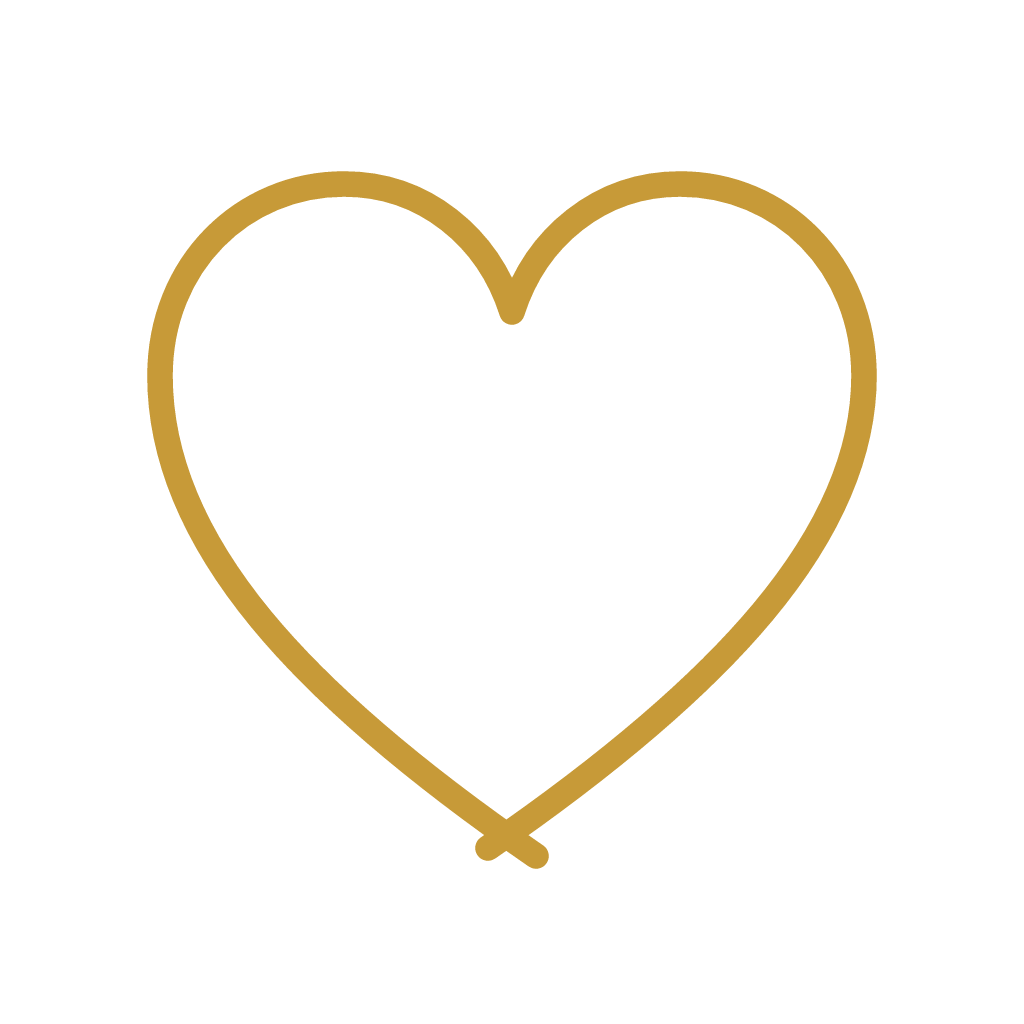
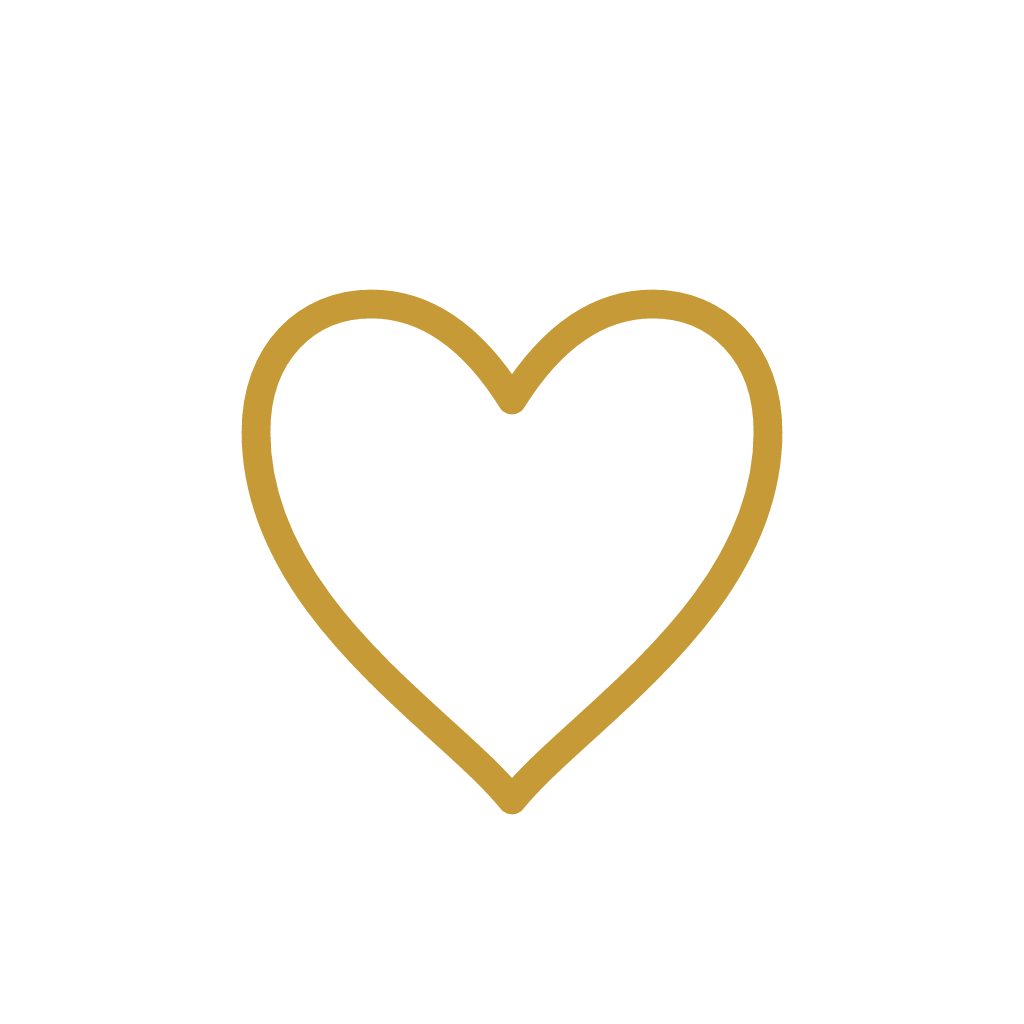
feat: 飾りの線画を、渡された SVG（currentColor）に入れ替える
- public/direction-ui/*.svg は、渡された15個をそのまま置く（書き換えていない）
- スクリプトは SVG を読むだけにして、PNG（古金色・1024×1024・透明）と確認用の一覧を作る
- 検査で出た注意: moon・cloud は余白が少ない、wave は右端で線が切れている

Changed region(s): [[0.125, 0.1562, 0.875, 0.8438]]

diff --git a/scripts/build_direction_ui_assets.py b/scripts/build_direction_ui_assets.py
@@ -1,12 +1,12 @@
-# 地図・円盤まわりで使う、飾りの小さな線画（方位星・テーマのしるし など）を作る。
+# 地図・円盤まわりで使う飾りの線画（方位星・テーマのしるし など）の、PNG と確認用の一覧を作る。
 #
 #   実行: uv run --with resvg-py --with pillow python scripts/build_direction_ui_assets.py
-#   出力: public/direction-ui/<名前>.svg と <名前>.png（1024×1024・背景は透明）
-#         docs/direction_ui_preview.png（32px / 48px に縮めた確認用。アプリでは使わない）
+#   もと: public/direction-ui/<名前>.svg（線の色は currentColor。使う側の文字色で色が決まる）
+#   出力: public/direction-ui/<名前>.png（1024×1024・背景は透明・古金色）
+#         docs/direction_ui_preview.png（16〜64px に縮めた確認用。アプリでは使わない）
 #
 # 8方位の扇・色・点数・方位名・選択中の表示など、データで変わるものはここでは作らない（アプリが描く）。
-# 線画は、すべて同じ決まりで描く: 64×64 の枠・同じ線の太さ・同じ金色・塗りなし・丸い線の端。
-# 画像生成AIの絵をなぞったものではなく、線を1本ずつ書いた SVG。
+# SVG は書き換えない（読むだけ）。SVG を直したら、このスクリプトを動かして PNG と一覧を作り直す。
 import io
 import os
 import sys
@@ -19,107 +19,9 @@ ROOT = os.path.dirname(os.path.dirname(os.path.abspath(__file__)))
 OUT = os.path.join(ROOT, 'public', 'direction-ui')
 PREVIEW = os.path.join(ROOT, 'docs', 'direction_ui_preview.png')
 
-GOLD = '#C79A38'   # 落ち着いた古金
-STROKE = 1.6       # 64 の枠での線の太さ（全部同じ）
+GOLD = '#C79A38'   # 落ち着いた古金（PNG にするときの色）
+INK = '#34302B'    # 墨色（確認用）
 SIZE = 1024
-
-
-def rot(shape, steps, step_deg):
-    return ''.join(f'<g transform="rotate({i * step_deg} 32 32)">{shape}</g>' for i in range(steps))
-
-
-# 針は中央の円の手前で止める（中央で線が重なって、小さくしたときに潰れないように）
-LONG_NEEDLE = '<path d="M32 7 L33.7 26.6 L32 28.2 L30.3 26.6 Z"/>'
-SHORT_NEEDLE = '<path d="M32 18 L33.2 26.8 L32 27.9 L30.8 26.8 Z"/>'
-
-ICONS = {
-    # 01 中央の円に置く方位星（八方向の細い針＋中央の小さな円）
-    'compass-rose': (
-        rot(LONG_NEEDLE, 4, 90)
-        + f'<g transform="rotate(45 32 32)">{rot(SHORT_NEEDLE, 4, 90)}</g>'
-        + '<circle cx="32" cy="32" r="2"/>'
-    ),
-    # 02 その日の一番良い方位に付ける小さな印（光の印。王冠やトロフィーにはしない）
-    'best-direction': (
-        '<path d="M32 9 C33 22 42 31 55 32 C42 33 33 42 32 55 C31 42 22 33 9 32 C22 31 31 22 32 9 Z"/>'
-        '<path d="M19.5 19.5 L24.5 24.5 M44.5 19.5 L39.5 24.5 M19.5 44.5 L24.5 39.5 M44.5 44.5 L39.5 39.5"/>'
-    ),
-    # 08 総合（方位星をさらに簡単にしたもの）
-    'theme-general': (
-        '<path d="M32 9 L35.2 28.8 L55 32 L35.2 35.2 L32 55 L28.8 35.2 L9 32 L28.8 28.8 Z"/>'
-        '<circle cx="32" cy="32" r="1.6"/>'
-    ),
-    # 03 ご縁（一筆で描いたようなハート。下で線が少し行き過ぎる）
-    'theme-love': (
-        '<path d="M33.5 53.5 C19 43.5 10 34 10 23.5 C10 16.5 15.2 11.5 21.5 11.5 C26.5 11.5 30.5 14.8 32 19.5 '
-        'C33.5 14.8 37.5 11.5 42.5 11.5 C48.8 11.5 54 16.5 54 23.5 C54 33.5 45 43 30.5 53"/>'
-    ),
-    # 04 仕事（小さな昔ながらのかばん。角はやわらかく）
-    'theme-work': (
-        '<rect x="10" y="22" width="44" height="28" rx="5"/>'
-        '<path d="M24 22 V18.5 C24 16 26 14 28.5 14 H35.5 C38 14 40 16 40 18.5 V22"/>'
-        '<path d="M10 34.5 H28.5 M35.5 34.5 H54"/>'
-        '<rect x="28.5" y="31.5" width="7" height="6" rx="1.4"/>'
-    ),
-    # 05 金運（まんなかに四角い穴のある古銭）
-    'theme-money': (
-        '<circle cx="32" cy="32" r="22"/>'
-        '<circle cx="32" cy="32" r="17.5" stroke-dasharray="1.2 3.4"/>'
-        '<rect x="26.5" y="26.5" width="11" height="11" rx="1.2"/>'
-    ),
-    # 06 健康（一枚の葉）
-    'theme-health': (
-        '<path d="M13 51 C12 29 27 12 51 12 C52 35 36 51 13 51 Z"/>'
-        '<path d="M13 51 C23 40 35 27 46 17"/>'
-        '<path d="M24 39.5 C24 34 25 30 27 26.5 M24 39.5 C29.5 39.5 33.5 38.5 37 36.5 M33.5 30 C33.5 26 34.5 23 36 20.5 M33.5 30 C37.5 30 40.5 29.2 43 27.8"/>'
-    ),
-    # 07 勉強（開いた本。文字は描かない）
-    'theme-study': (
-        '<path d="M32 19.5 C26 14.5 17 13.5 9 15.5 V46 C17 44 26 45 32 50"/>'
-        '<path d="M32 19.5 C38 14.5 47 13.5 55 15.5 V46 C47 44 38 45 32 50"/>'
-        '<path d="M32 19.5 V50"/>'
-    ),
-    # 09 地図で見る（折りたたんだ地図＋小さな方位の印）
-    'map-direction': (
-        '<path d="M9 18.5 L24 13 L40 18.5 L55 13 V45.5 L40 51 L24 45.5 L9 51 Z"/>'
-        '<path d="M24 13 V45.5 M40 18.5 V51"/>'
-        '<path d="M32 23.5 L33.4 30.6 L40.5 32 L33.4 33.4 L32 40.5 L30.6 33.4 L23.5 32 L30.6 30.6 Z"/>'
-    ),
-    # 10 「今日のポイント」の横に置く、小さな方位磁針（方位星より少し飾りがある）
-    'daily-point': (
-        '<circle cx="32" cy="35" r="20"/>'
-        '<circle cx="32" cy="35" r="15.5" stroke-dasharray="1.2 3.2"/>'
-        '<circle cx="32" cy="10.2" r="3"/>'
-        '<path d="M32 13.2 V15"/>'
-        '<g transform="translate(0 3)">'
-        '<path d="M32 19.5 L33.8 30.2 L32 32 L30.2 30.2 Z"/><path d="M32 44.5 L30.2 33.8 L32 32 L33.8 33.8 Z"/>'
-        '<path d="M19.5 32 L30.2 30.2 L32 32 L30.2 33.8 Z"/><path d="M44.5 32 L33.8 33.8 L32 32 L33.8 30.2 Z"/>'
-        '<circle cx="32" cy="32" r="1.6"/>'
-        '</g>'
-    ),
-    # 11〜15 飾り（とても簡単に）
-    'sun': (
-        '<circle cx="32" cy="32" r="9.5"/>'
-        + rot('<path d="M32 8 V16"/>', 4, 90)
-        + '<g transform="rotate(45 32 32)">' + rot('<path d="M32 11.5 V16.5"/>', 4, 90) + '</g>'
-    ),
-    'moon': '<path d="M41 9.5 C28 10.5 18 21 18 34 C18 46 27 55 39 55 C45 55 50 52.5 54 48.5 C40 50.5 29 41 29 28 C29 20.5 33.5 13.5 41 9.5 Z"/>',
-    'cloud': (
-        '<path d="M14 45 H46.5 C52.5 45 57 40.8 57 35.5 C57 30.5 53 26.8 48.5 27 C48.5 18.5 38 14.5 31.5 21.5 '
-        'C24.5 17.5 16.5 23.5 17.5 31.5 C12.5 30.5 7.5 34 7.5 38.8 C7.5 42.3 10.5 45 14 45"/>'
-        '<path d="M38.5 36.5 C39.5 32.5 44.5 31.5 47 34.5 C49 37 47 40 44.5 39.2"/>'
-    ),
-    'mountain': (
-        '<path d="M6 50 L24 19 L33.5 35.5 L41 25.5 L58 50"/>'
-        '<path d="M19 27.5 L22.2 30 L24.6 27 L27.4 30.2 L29.5 28.5"/>'
-        '<path d="M12 50 H52"/>'
-    ),
-    'wave': (
-        '<path d="M6 39 C13 26.5 27 26 30.5 37 C32.5 43.5 28 48 23.5 46 C20 44.4 20.8 39.5 24.5 39.6"/>'
-        '<path d="M30.5 37 C36 28 48 27.5 58 38.5"/>'
-        '<path d="M8 51 C20 46.5 42 46.5 56 51"/>'
-    ),
-}
 
 USES = {
     'compass-rose': '円盤の中央に置く方位星',
@@ -140,72 +42,74 @@ USES = {
 }
 
 
-def svg_of(body):
-    return (
-        '<svg xmlns="http://www.w3.org/2000/svg" viewBox="0 0 64 64" fill="none" '
-        f'stroke="{GOLD}" stroke-width="{STROKE}" stroke-linecap="round" stroke-linejoin="round">'
-        f'{body}</svg>\n'
-    )
-
-
-def render(svg, size):
-    data = bytes(resvg_py.svg_to_bytes(svg_string=svg, width=size, height=size))
+def render(svg, size, color=GOLD):
+    data = bytes(resvg_py.svg_to_bytes(svg_string=svg.replace('currentColor', color), width=size, height=size))
     return Image.open(io.BytesIO(data)).convert('RGBA')
 
 
-def check(name, image):
-    """背景が透明か・大きさ・余白・色がそろっているかを確かめる。だめなら止める。"""
-    assert image.size == (SIZE, SIZE), (name, image.size)
-    assert image.mode == 'RGBA', (name, image.mode)
+def inspect(name, svg, image):
+    """決まりを確かめる。守れていないと困るものは止め、気をつけたいものは注意として返す。"""
+    assert image.size == (SIZE, SIZE) and image.mode == 'RGBA', (name, image.size, image.mode)
+    assert 'viewBox="0 0 64 64"' in svg, (name, 'viewBox')
+    assert 'currentColor' in svg and '<text' not in svg and 'filter' not in svg and 'Gradient' not in svg, (name, 'svg rules')
     alpha = image.getchannel('A')
-    corners = [alpha.getpixel(p) for p in [(0, 0), (SIZE - 1, 0), (0, SIZE - 1), (SIZE - 1, SIZE - 1), (4, SIZE // 2), (SIZE // 2, 4)]]
+    corners = [alpha.getpixel(p) for p in [(0, 0), (SIZE - 1, 0), (0, SIZE - 1), (SIZE - 1, SIZE - 1)]]
     assert all(a == 0 for a in corners), (name, 'the background is not transparent', corners)
+    wanted = tuple(int(GOLD[i:i + 2], 16) for i in (1, 3, 5))
+    solid = [px[:3] for px in image.get_flattened_data() if px[3] == 255]
+    assert all(max(abs(px[i] - wanted[i]) for i in range(3)) <= 3 for px in solid), (name, 'unexpected colours')
     box = alpha.getbbox()
     margin = min(box[0], box[1], SIZE - box[2], SIZE - box[3]) / SIZE
-    assert margin >= 0.07, (name, 'too little padding', margin)
-    opaque = sum(1 for a in alpha.get_flattened_data() if a > 0) / (SIZE * SIZE)
-    assert 0.01 < opaque < 0.2, (name, 'line coverage looks wrong', opaque)
-    # 色は金の1色だけ（はっきり描かれている点を調べる）
-    solid = [px[:3] for px in image.get_flattened_data() if px[3] == 255]
-    wanted = tuple(int(GOLD[i:i + 2], 16) for i in (1, 3, 5))
-    off = sum(1 for px in solid if max(abs(px[i] - wanted[i]) for i in range(3)) > 3)
-    assert off == 0, (name, 'unexpected colours', off)
-    return margin, opaque
+    notes = []
+    if margin <= 0.001:
+        notes.append('線が枠の端に届いていて、端で切れている')
+    elif margin < 0.07:
+        notes.append(f'余白が少ない（{margin:.0%}）')
+    return margin, notes
 
 
 def main():
-    os.makedirs(OUT, exist_ok=True)
-    rows = []
+    missing = [name for name in USES if not os.path.exists(os.path.join(OUT, f'{name}.svg'))]
+    assert not missing, ('missing svg', missing)
+    names = list(USES)
     small = {}
-    for name, body in ICONS.items():
-        svg = svg_of(body)
-        with open(os.path.join(OUT, f'{name}.svg'), 'w', encoding='utf-8', newline='\n') as handle:
-            handle.write(svg)
+    warnings = []
+    for name in names:
+        with open(os.path.join(OUT, f'{name}.svg'), encoding='utf-8') as handle:
+            svg = handle.read()
         image = render(svg, SIZE)
-        margin, opaque = check(name, image)
+        margin, notes = inspect(name, svg, image)
         image.save(os.path.join(OUT, f'{name}.png'), optimize=True)
-        small[name] = {size: render(svg, size * 2) for size in (16, 24, 32, 48, 64)}  # 2倍で描いて、くっきり見せる
-        rows.append((name, margin, opaque))
-        print(f'{name:16s} 余白 {margin:.0%}  線の割合 {opaque:.1%}  {USES[name]}')
+        small[name] = {
+            (size, color): render(svg, size * 2, color)  # 2倍で描いて、くっきり見せる
+            for size in (16, 24, 32, 48, 64)
+            for color in (GOLD, INK)
+        }
+        print(f'{name:16s} 余白 {margin:.0%}  {USES[name]}' + (f'  ※ {"・".join(notes)}' if notes else ''))
+        warnings += [(name, note) for note in notes]
 
-    # 確認用の一覧: 明るい地と暗い地の両方に、16 / 24 / 32 / 48 / 64px で並べる（アプリでは使わない）
+    # 確認用の一覧: 金（明るい地）・金（暗い地）・墨色（白い地）に、16 / 24 / 32 / 48 / 64px で並べる
     sizes = (16, 24, 32, 48, 64)
-    cell_w, cell_h = 150, 2 * sum(s + 14 for s in sizes) + 40
-    sheet = Image.new('RGB', (cell_w * len(ICONS), cell_h), '#F8F4EA')
+    band = sum(s + 14 for s in sizes) + 16
+    bands = [('#F8F4EA', GOLD), ('#1C1A18', GOLD), ('#FFFFFF', INK)]
+    cell_w = 150
+    sheet = Image.new('RGB', (cell_w * len(names), 40 + band * len(bands)), '#F8F4EA')
     draw = ImageDraw.Draw(sheet)
-    half = (cell_h - 40) // 2
-    draw.rectangle([0, 40 + half, sheet.width, cell_h], fill='#1C1A18')
-    for column, name in enumerate(ICONS):
+    for index, (background, _) in enumerate(bands):
+        draw.rectangle([0, 40 + band * index, sheet.width, 40 + band * (index + 1)], fill=background)
+    for column, name in enumerate(names):
         x0 = column * cell_w
         draw.text((x0 + 6, 12), name, fill='#57504A')
-        for band, top in enumerate((40, 40 + half)):
-            y = top + 8
+        for index, (_, color) in enumerate(bands):
+            y = 40 + band * index + 8
             for size in sizes:
-                icon = small[name][size].resize((size, size), Image.LANCZOS)
+                icon = small[name][(size, color)].resize((size, size), Image.LANCZOS)
                 sheet.paste(icon, (x0 + (cell_w - size) // 2, y), icon)
                 y += size + 14
     sheet.save(PREVIEW, optimize=True)
-    print(f'\n{len(rows)} 個を {os.path.relpath(OUT, ROOT)} に保存。確認用の一覧: {os.path.relpath(PREVIEW, ROOT)}')
+    print(f'\n{len(names)} 個の PNG を {os.path.relpath(OUT, ROOT)} に保存。確認用の一覧: {os.path.relpath(PREVIEW, ROOT)}')
+    if warnings:
+        print('注意:', '; '.join(f'{name}（{note}）' for name, note in warnings))
 
 
 if __name__ == '__main__':
